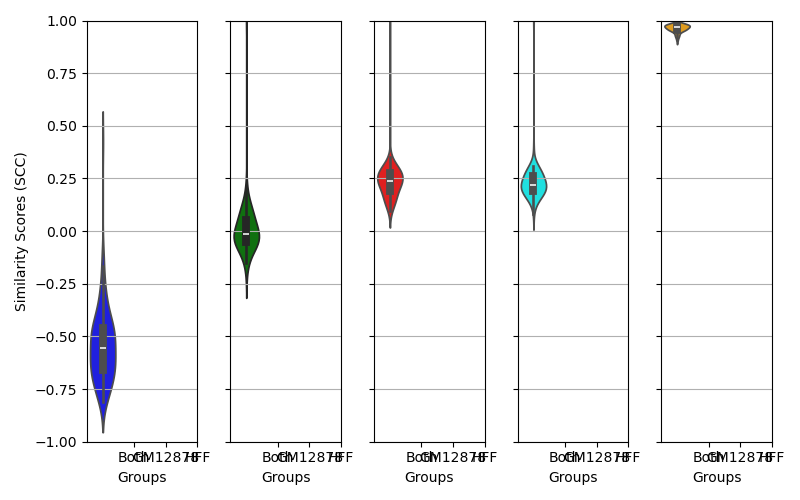
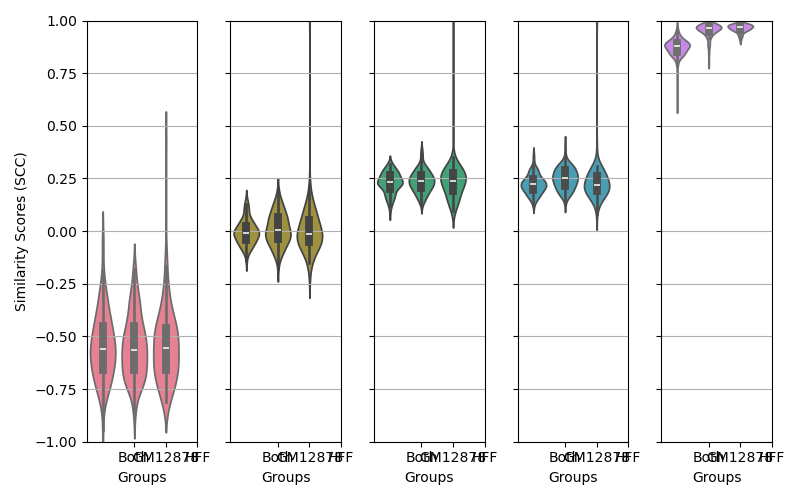
new plot

diff --git a/experiments/2023-09-18/plot_SCC_2.py b/experiments/2023-09-18/plot_SCC_2.py
@@ -15,7 +15,7 @@ HFF_pairs =  "h0_HFF_selected_pairs.txt"
 pairs_list = [GM12878_HFF_pairs, GM12878_pairs, HFF_pairs]
 
 #plt.figure(figsize=(15, 5))  
-
+"""
 violins = []
 fig, axes = plt.subplots(1, 1, figsize=(8, 5))
 
@@ -60,39 +60,25 @@ plt.tight_layout()
 plt.savefig(os.path.join("/project/compbio-lab/scHi-C/Kim2020/similarity_scores/SCC_plot_h0.png"))
 plt.savefig(os.path.join("/home/maa160/SnapHiC-D/experiments/2023-09-18/SCC_plot_h0.png"))
 plt.clf()
-
+"""
 ## Other plot
 
 violins = []
 fig, axes = plt.subplots(1, 5, figsize=(8, 5))
 colors = sns.color_palette('husl', n_colors=5)
+print(colors)
 # Set the common x-axis ticks and labels
 x_ticks = [1, 2, 3]
 x_tick_labels = ["Both", "GM12878", "HFF"]
-colors = ['blue', 'green', 'red', 'cyan', 'orange']
 for i, d in enumerate(dirs):
     ax = axes[i]  # Get the current axis
-    all_violin_data = []
-    for j, p in enumerate(pairs_list):
-        temp_df = pd.read_csv(os.path.join(d, p), sep='\t')
-        temp_df["HiCRep_SCC"] = pd.to_numeric(temp_df["HiCRep_SCC"])
-        all_violin_data.append(temp_df["HiCRep_SCC"])
-#    print(len(all_violin_data))
-    # pos = [j+1] * 5
+    temp_df = pd.read_csv(os.path.join(d, "h0_all_pairs.csv"), sep=',')
+    print(temp_df)
+    temp_df["HFF_SCC"] = pd.to_numeric(temp_df["HFF_SCC"])
+    temp_df["GM12878_SCC"] = pd.to_numeric(temp_df["GM12878_SCC"])
+    temp_df["GM12878_HFF_SCC"] = pd.to_numeric(temp_df["GM12878_HFF_SCC"])
+    all_violin_data = temp_df[["GM12878_HFF_SCC", "GM12878_SCC", "HFF_SCC"]]
     sns.violinplot(all_violin_data,ax=ax, palette=[colors[i]]*3)                
-        # Set colors for the violin bodies
-#    for violin, color in zip(v['bodies'], colors):
-#        violin.set_facecolor(color)
-    
-    # Set colors for the mean line and median line
-#    for partname, color in zip(('cbars', 'cmedians'), colors):
-#        part = v[partname]
-#        part.set_edgecolor(color)
-#    violins.append(v['bodies'][0])
-#    violins.append(v['bodies'][1])
-#    violins.append(v['bodies'][2])
-#    violins.append(v['bodies'][3])
-#    violins.append(v['bodies'][4])
     ax.set_ylim(-1, 1)  # Set y-axis limits to [-1, 3]
     ax.set_xticks(x_ticks)
     ax.set_xticklabels(x_tick_labels)
@@ -102,13 +88,6 @@ for i, d in enumerate(dirs):
     if i != 0:
         ax.set_yticklabels([])
 axes[0].set_ylabel('Similarity Scores (SCC)')
-#axes[0].set_title("Raw")
-#axes[1].set_title("RWR")
-#axes[2].set_title("scVI")
-#axes[3].set_title("Higashi K0")
-#axes[4].set_title("Higashi K5")
-# Add a legend to the first subplot (you can customize this as needed)
-#axes.legend(violins, ["Raw", "RWR", "scVI", "Higashi K0", "Higashi K5"], loc='upper left', bbox_to_anchor=(1, 1))
 plt.subplots_adjust(wspace=0)
 plt.tight_layout()
 plt.savefig(os.path.join("/project/compbio-lab/scHi-C/Kim2020/similarity_scores/SCC_plot_h0_subplots.png"))

diff --git a/experiments/2023-09-18/new_files.py b/experiments/2023-09-18/new_files.py
@@ -1,0 +1,30 @@
+import pandas as pd
+import os
+import matplotlib.pyplot as plt
+import seaborn as sns
+Kim2020_cools = "/project/compbio-lab/scHi-C/Kim2020/similarity_scores/Kim2020_cools"
+rwr_cools = "/project/compbio-lab/scHi-C/Kim2020/similarity_scores/rwr_cools"
+scVI_cools = "/project/compbio-lab/scHi-C/Kim2020/similarity_scores/scVI_cools"
+higashi_k0_cools = "/project/compbio-lab/scHi-C/Kim2020/similarity_scores/higashi_k0_cools"
+higashi_k5_cools =  "/project/compbio-lab/scHi-C/Kim2020/similarity_scores/higashi_k5_cools"
+dirs = [Kim2020_cools, rwr_cools, scVI_cools, higashi_k0_cools, higashi_k5_cools]
+#names = ["raw_SCC", "rwr_SCC","scVI_SCC","higashi_k0_SCC","higashi_k5_SCC"]
+
+GM12878_HFF_pairs = "h0_GM12878_HFF_selected_pairs.txt"
+GM12878_pairs = "h0_GM12878_selected_pairs.txt"
+HFF_pairs =  "h0_HFF_selected_pairs.txt"
+pairs_list = [GM12878_HFF_pairs, GM12878_pairs, HFF_pairs]
+names = ["GM12878_HFF_SCC", "GM12878_SCC", "HFF_SCC"]
+
+for i, d in enumerate(dirs):
+    all_violin_data = pd.read_csv(os.path.join(d, pairs_list[0]), sep='\t')
+    del all_violin_data["HiCRep_SCC"]
+    for j, p in enumerate(pairs_list):
+        temp_df = pd.read_csv(os.path.join(d, p), sep='\t')
+        temp_df["HiCRep_SCC"] = pd.to_numeric(temp_df["HiCRep_SCC"])
+        all_violin_data[names[j]] = temp_df["HiCRep_SCC"]
+    print(all_violin_data)
+    csv_filename = os.path.join(d, "h0_all_pairs.csv")  # Specify the desired output filename
+    all_violin_data.to_csv(csv_filename, index=False)
+
+
